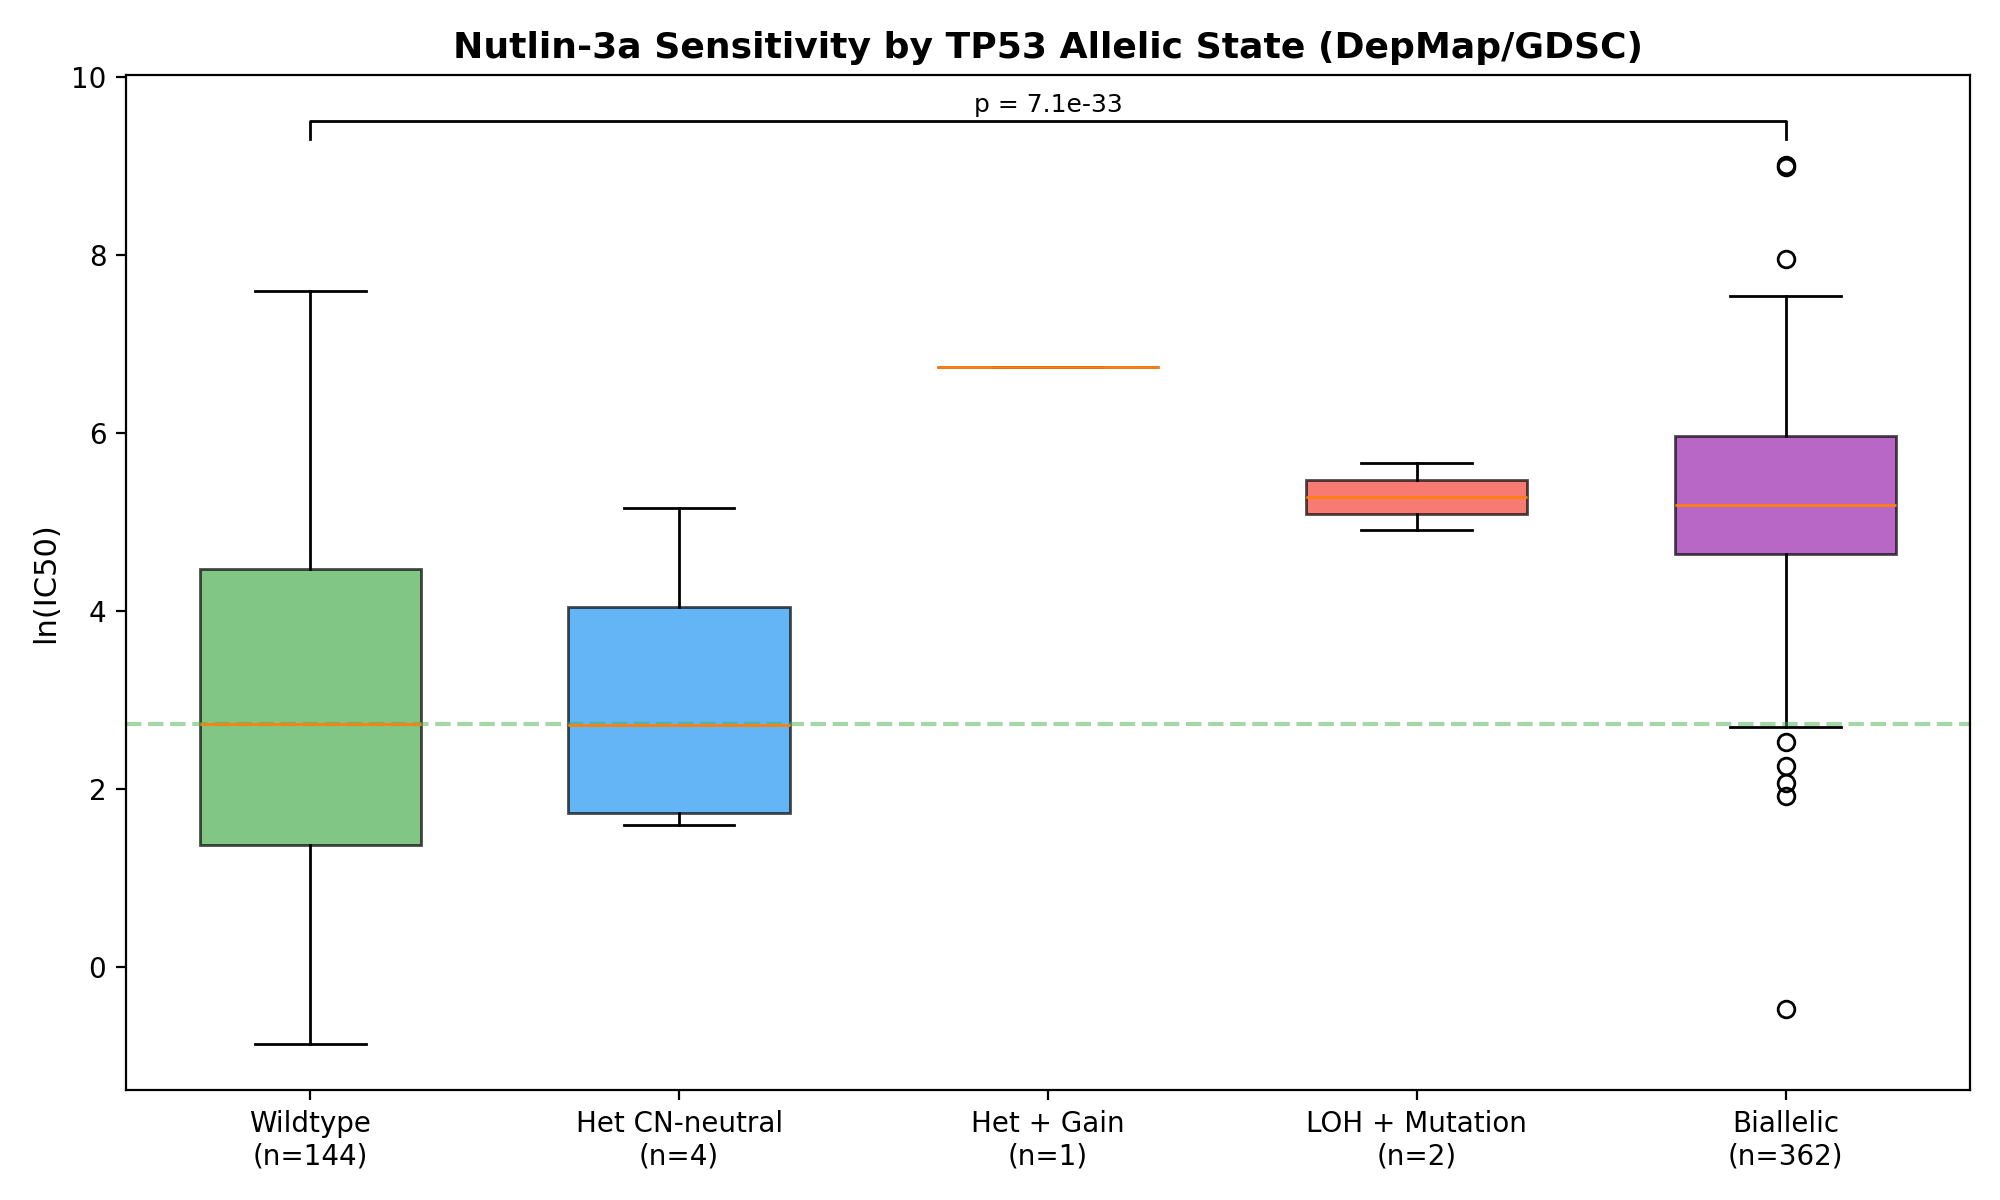
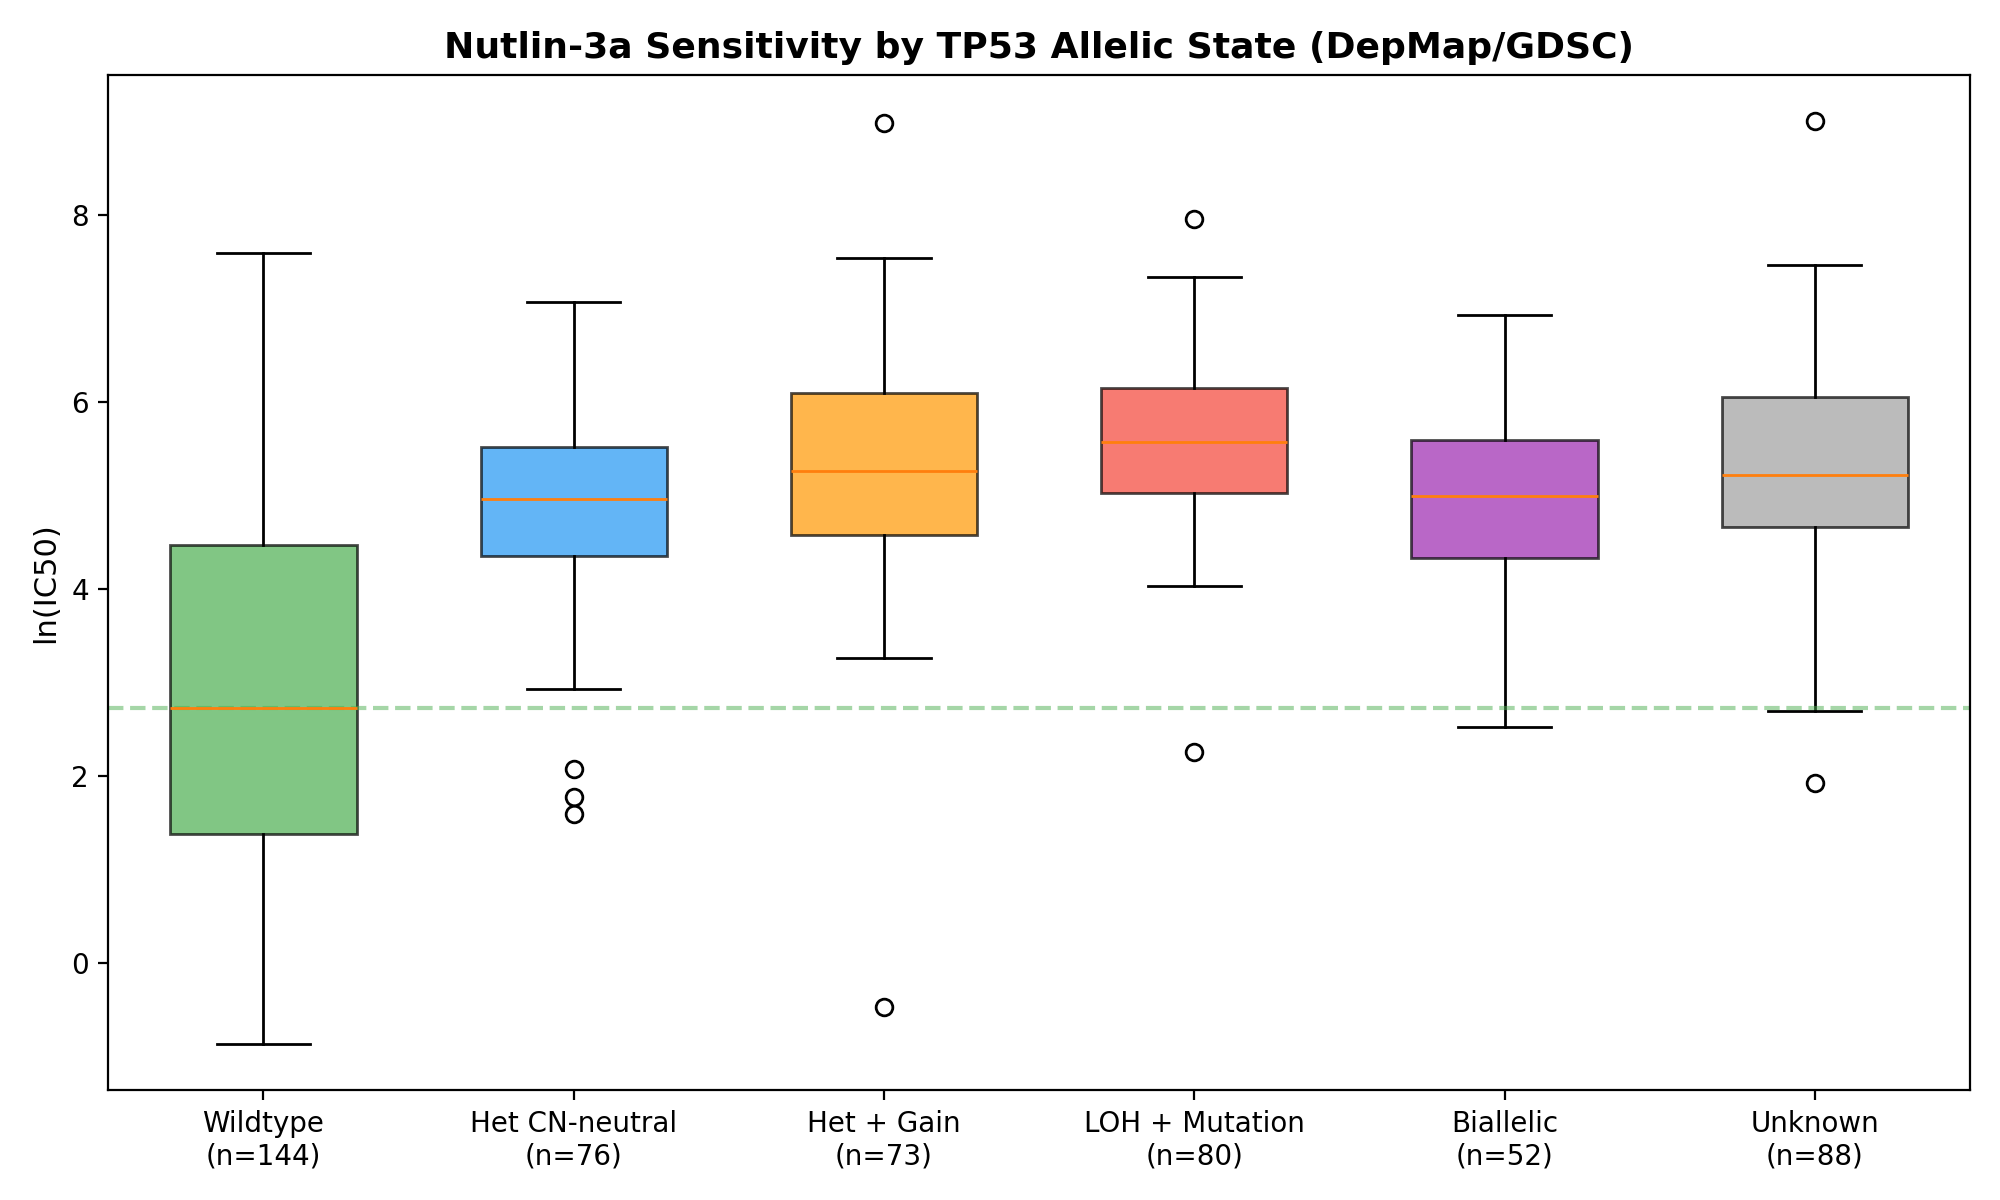
Update Nutlin-3a boxplot and drug response results

diff --git a/src/generate_figures.py b/src/generate_figures.py
@@ -185,20 +185,6 @@ def fig_depmap_nutlin_box():
     ax.axhline(y=merged[merged['allelic_state'] == 'wildtype']['LN_IC50'].median(),
                color=STATE_COLORS['wildtype'], linestyle='--', alpha=0.5, label='WT median')
 
-    # Add significance annotation for biallelic vs WT
-    wt_ic50 = merged[merged['allelic_state'] == 'wildtype']['LN_IC50']
-    bi_ic50 = merged[merged['allelic_state'] == 'biallelic_mutation']['LN_IC50']
-    if len(wt_ic50) >= 3 and len(bi_ic50) >= 3:
-        from scipy.stats import mannwhitneyu
-        _, p = mannwhitneyu(bi_ic50, wt_ic50, alternative='two-sided')
-        # Find positions of wildtype and biallelic in plot_order
-        wt_pos = plot_order.index('wildtype') + 1
-        bi_pos = plot_order.index('biallelic_mutation') + 1
-        y_max = max(merged['LN_IC50'].max(), 8)
-        ax.plot([wt_pos, wt_pos, bi_pos, bi_pos], [y_max + 0.3, y_max + 0.5, y_max + 0.5, y_max + 0.3],
-                color='black', linewidth=1)
-        ax.text((wt_pos + bi_pos) / 2, y_max + 0.6, f'p = {p:.1e}', ha='center', fontsize=9)
-
     plt.tight_layout()
     path = os.path.join(FIGURES_DIR, 'depmap_nutlin_boxplot.png')
     fig.savefig(path, dpi=200)

diff --git a/src/depmapdrugresponse.py b/src/depmapdrugresponse.py
@@ -18,7 +18,7 @@ def load_tp53_mutations():
     df = pd.read_csv(MUTATIONS_FILE, low_memory=False)
     df = df[df['HugoSymbol'] == 'TP53'].copy()
     df['aa_change'] = df['ProteinChange'].fillna('').str.replace('p.', '', n=1, regex=False)
-    return df[['ModelID', 'aa_change', 'VariantType', 'RefCount', 'AltCount']].copy()
+    return df[['ModelID', 'aa_change', 'VariantType', 'RefCount', 'AltCount', 'Pos']].copy()
 
 
 def load_tp53_cna():
@@ -54,7 +54,8 @@ def load_drug_response():
 
 
 def classify_cell_lines(mutations_df, cna_df):
-    n_muts = mutations_df.groupby('ModelID').size().to_dict()
+    dedup = mutations_df.drop_duplicates(subset=['ModelID', 'Pos'])
+    n_muts = dedup.groupby('ModelID').size().to_dict()
     cna_lookup = cna_df.set_index('ModelID')['tp53_cna'].to_dict()
 
     all_models = set(cna_lookup.keys())